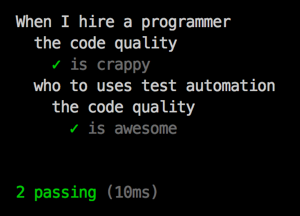
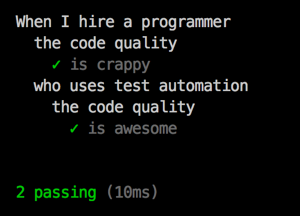
typo fixes reported by Ufuk

Changed region(s): [[0.21, 0.3611, 0.93, 0.4444]]

diff --git a/part2.html b/part2.html
@@ -56,23 +56,23 @@
 
     <p>In the second part of my series, I'll focus on automated tests for the backend.</p>
 
-    <p>When I started with the backend code for our new application, working with Node.js and the <a href="http://expressjs.com/">Express framework</a> was still mostly <em>terra incognita</em> for me. I had written a couple of Grunt tasks and an import script to fetch data from an API, but never a fully fledged webapp, at least not in JavaScript.</p>
+    <p>When I started with the backend code for our new application, working with <a href="https://nodejs.org/">Node.js</a> and the <a href="http://expressjs.com/">Express framework</a> was still mostly <em>terra incognita</em> for me. I had written a couple of Grunt tasks and an import script to fetch data from an API, but never a fully fledged webapp, at least not in JavaScript.</p>
 
     <p>I had written web apps in Java back in the days before I moved from backend to frontend. Building on that experience and looking at the mess the old mobile.de home page web app had become over the years, one thing was crystal clear:</p>
 
-    <p><b>You cannot write maintainable code without proper unit test coverage.</b></p>
+    <p><strong>You cannot write maintainable code without proper unit test coverage.</strong></p>
 
     <p>If you have proper test coverage, you can easily refactor your code without having to fear to break something without being aware of it. This has happened to me countless times. I'll make a wild guess and assume it has happened to you, too. &#128522;</p>
+
+    <p>There's a German saying for this: “Mit dem Arsch einreißen was man mit den Händen aufgebaut hat.” (tearing down with your ass what you've built up with your hands)</p>
 
     <div class="placeholder">
         cartoon
     </div>
 
-    <p>There's a German saying for this: “Mit dem Arsch einreißen was man mit den Händen aufgebaut hat.” (tearing down with your ass what you've built up with your hands)</p>
-
     <p>Automated tests are the only way I know of to obviate this phenomenon.</p>
 
-    <p>The safety net of good test coverage is even more important in JavaScript than in Java, as JavaScript lacks typ safety, something I'm starting more and more to resent (yeah, I know, there's <a href="http://www.typescriptlang.org/">TypeScript</a>, I haven't gotten around to trying that yet).</p>
+    <p>The safety net of good test coverage is even more important in JavaScript than in Java, as JavaScript lacks type safety, something I'm starting more and more to resent (yeah, I know, there's <a href="http://www.typescriptlang.org/">TypeScript</a>, I haven't gotten around to trying that yet).</p>
 
     <p>With a good test setup that runs your tests automatically as you write your code, you can concentrate intensely on solving the problem at hand, without being distracted by things like reloading the page in the browser or restarting the server. You can deep dive <a href="http://psygrammer.com/2011/02/10/the-flow-programming-in-ecstasy/">into the zone</a>. To me, this is joy indeed.</p>
 
@@ -116,7 +116,7 @@
 
     <p>In contrast to Java classes, Node modules are singletons by nature, if you use them in multiple places, you always get the same instance of the module with the same scope.</p>
 
-    <p>When I got started coding the new mobile.de home home page's backend, I found this really convenient and elegant. “No need to write all that boilerplate code with class instantiation and what not like in Java,” I thought.</p>
+    <p>When I got started coding the new mobile.de home page's backend, I found this really convenient and elegant. “No need to write all that boilerplate code with class instantiation and what not like in Java,” I thought.</p>
     <p>Here's a (very simplified) example of a node module <a href="https://github.com/pahund/blog-article-copenhagen/tree/master/demos/testable-code-bad-example/makes.js">makes.js</a> that provides a list of car or motorbikes makes, which can be used for populating a dropdown menu on a search form:</p>
 
     <iframe src="http://pahund.github.io/blog-article-copenhagen/examples/unit-test-bad-makes.html" frameBorder="0"  width="100%" height="190" scrolling="no" seamless></iframe>
@@ -163,7 +163,7 @@
 
     <h3>The Horror, the Horror</h3>
 
-    <p>It turned out that outsmarting the npm cache was not such a great idea, especially when writing tests for asynchronous operations in this manner. It worked fine when running the tests locally, but when running them as part of our distribution build on Jenkins CI, we soon experienced builds that we're hanging and tests that failed with timeouts. It got so bad that at some point we were forced to actually disable our test suites to be able to deploy changes to production, without having to retrigger the build multiple times until it finally finished with green tests.</p>
+    <p>It turned out that outsmarting the npm cache was not such a great idea, especially when writing tests for asynchronous operations in this manner. It worked fine when running the tests locally, but when running them as part of our distribution build on Jenkins CI, we soon experienced builds that were hanging and tests that failed with timeouts. It got so bad that at some point we were forced to actually disable our test suites to be able to deploy changes to production, without having to retrigger the build multiple times until it finally finished with green tests.</p>
 
     <h3>A Better Way</h3>
 
@@ -225,7 +225,7 @@
 
     <ul>
         <li>Practical application of ES6 features and working with <a href="https://babeljs.io/">Babel</a></li>
-        <li>working with <a href="http://www.dustjs.com/">Dust</a> templates and using helpers</li>
+        <li>Working with <a href="http://www.dustjs.com/">Dust</a> templates and using helpers</li>
         <li>MVC architecture with <a href="http://expressjs.com/">Express</a></li>
     </ul>
 
